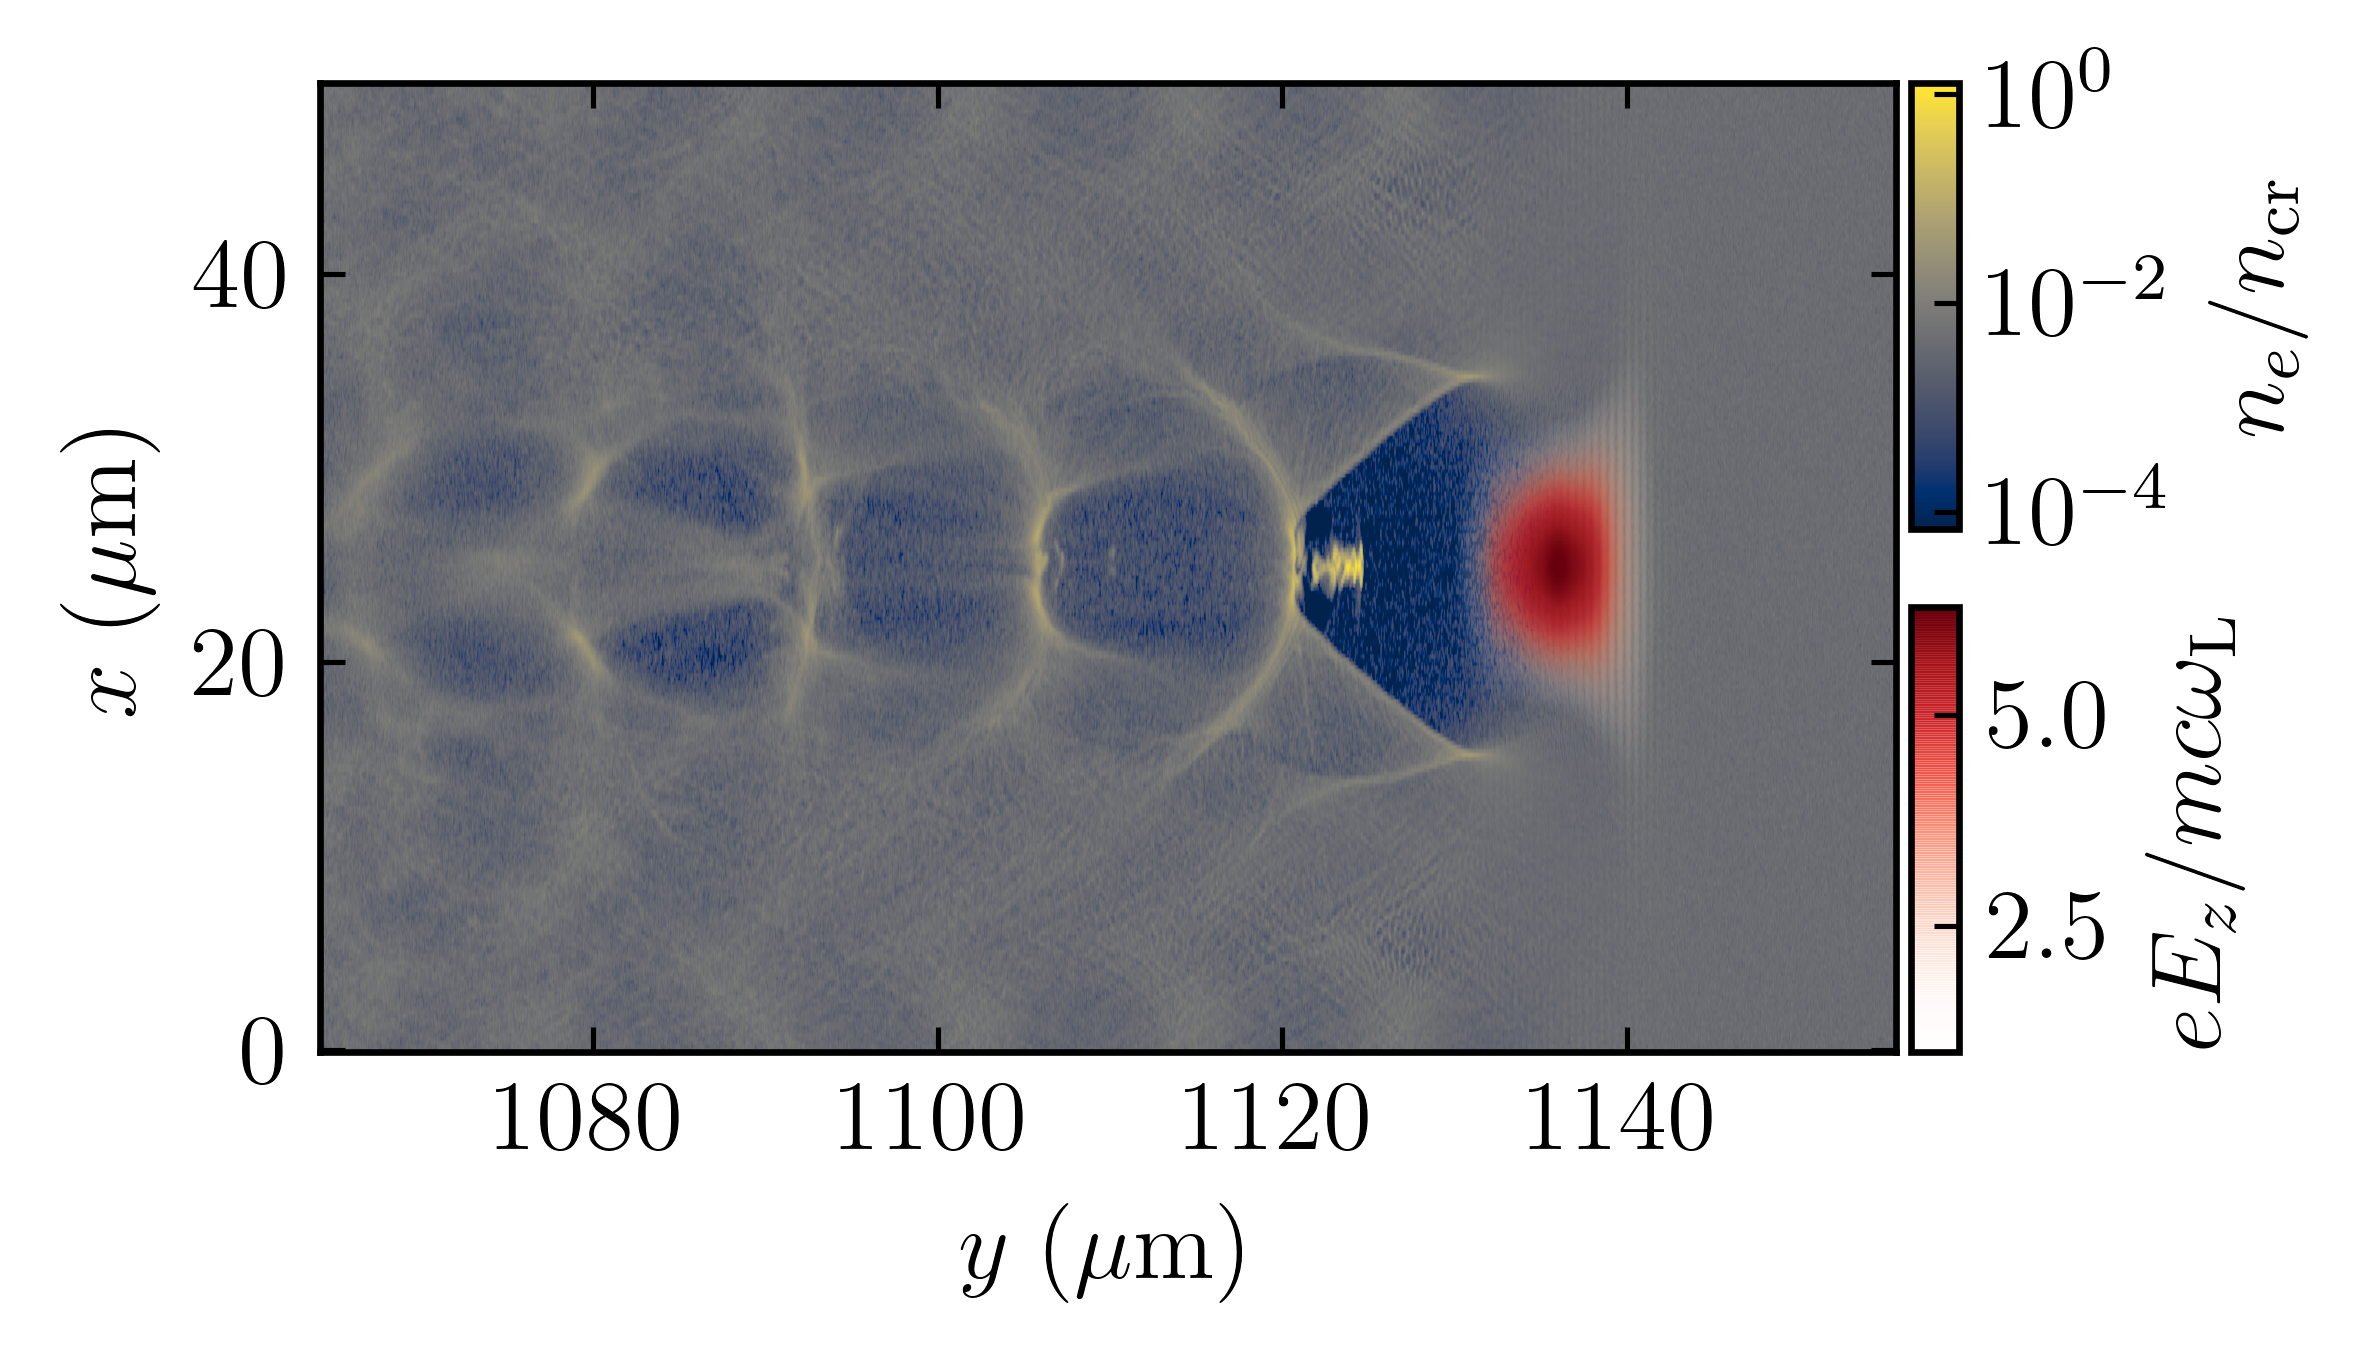
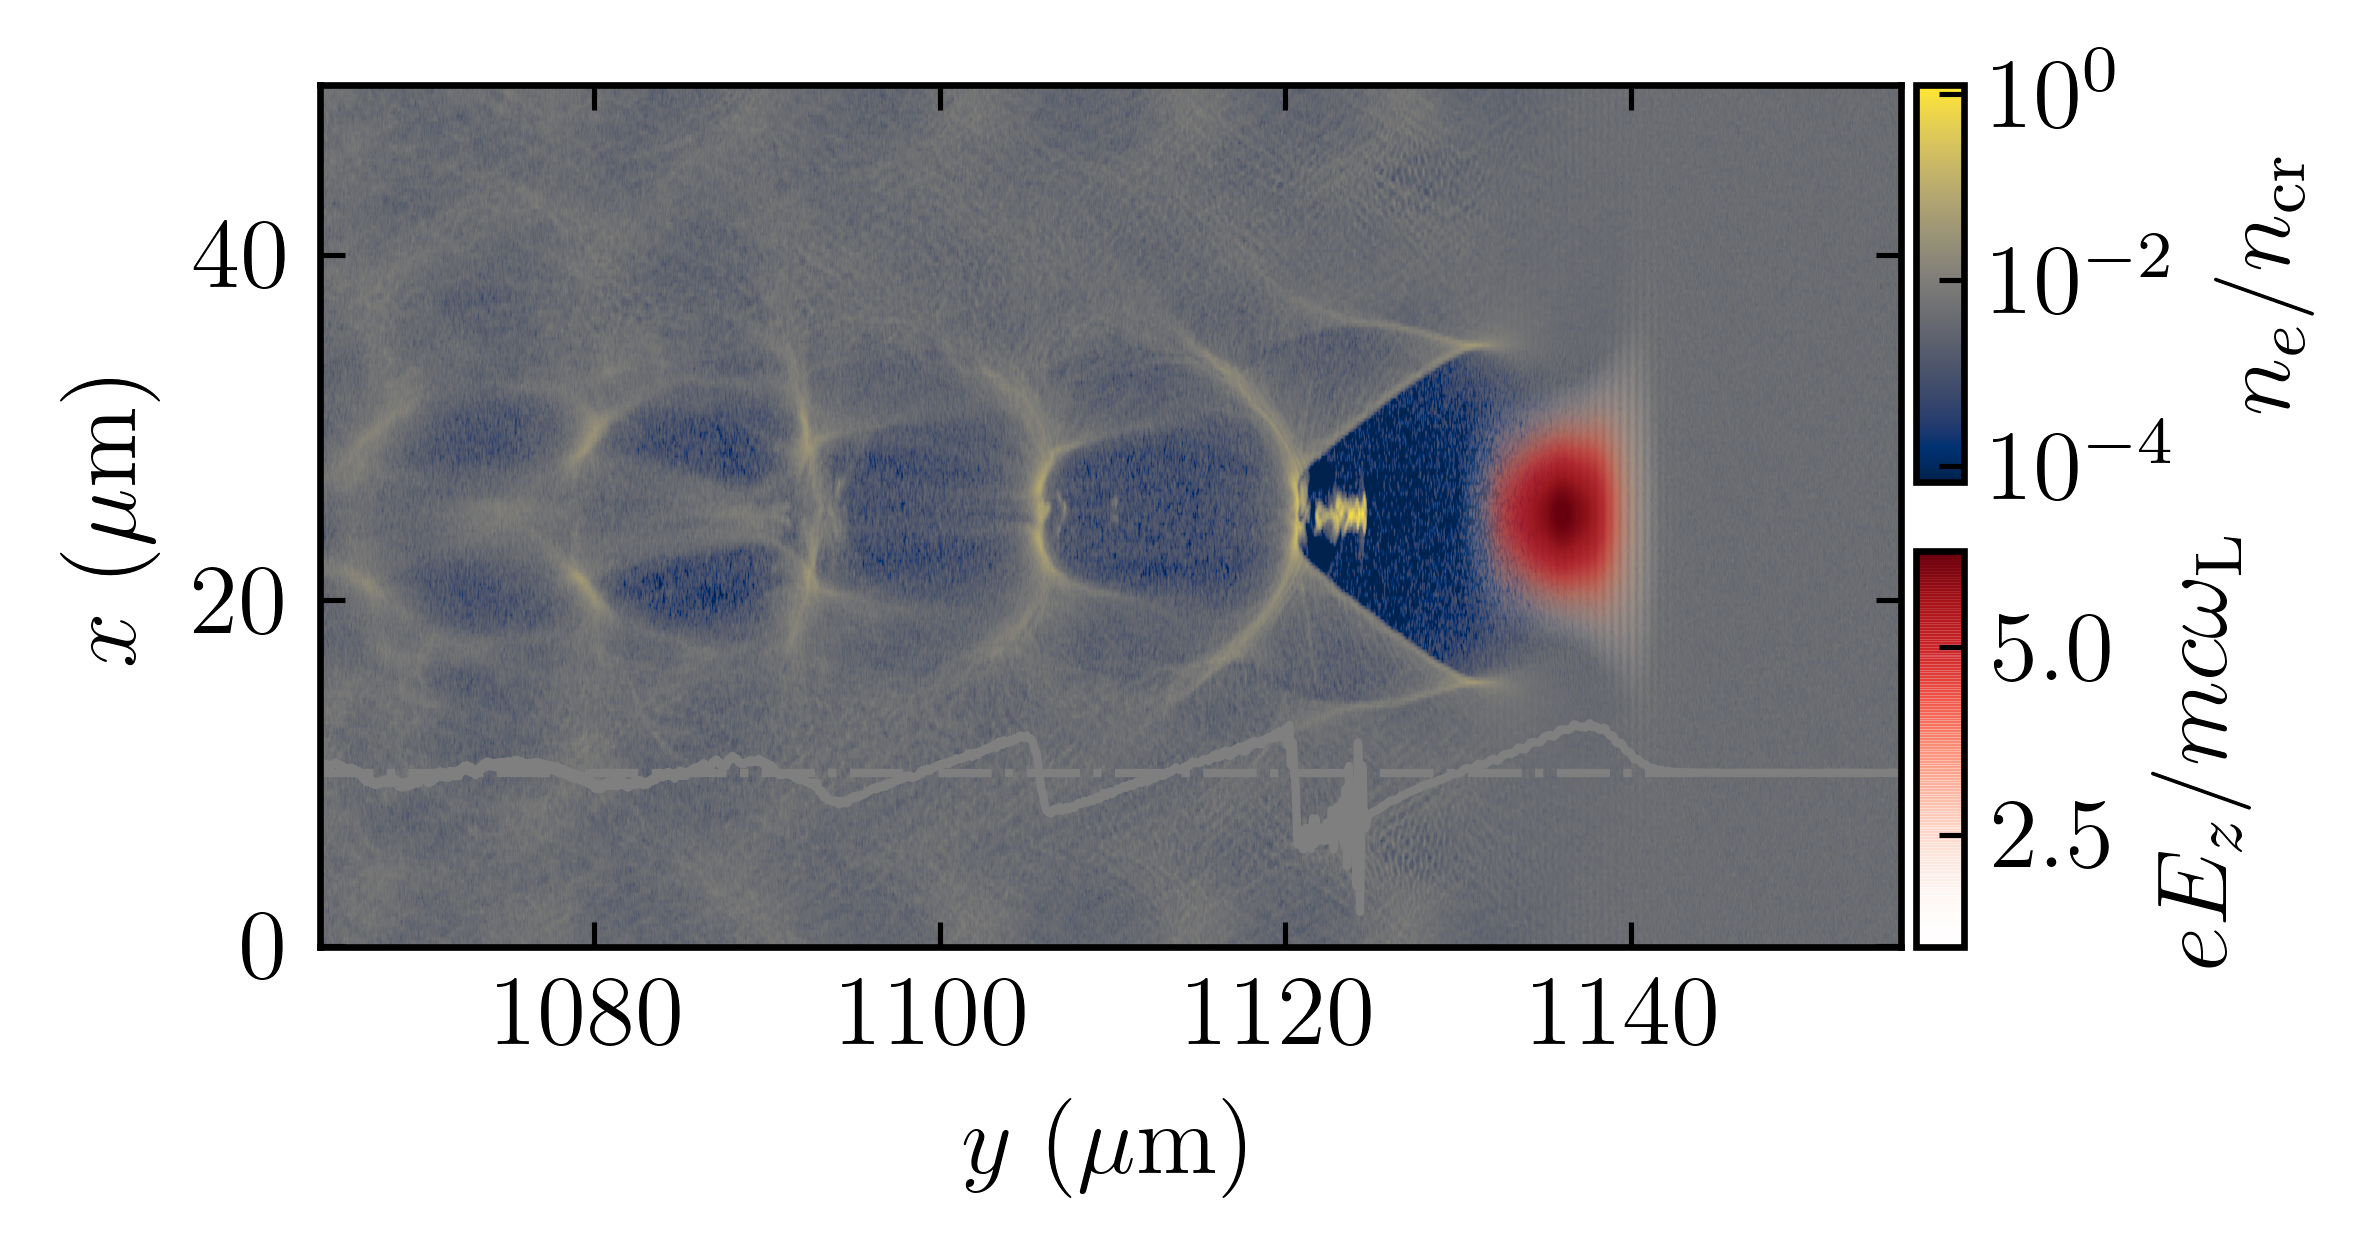
Add longitudinal electic field profile

diff --git a/laser_density.py b/laser_density.py
@@ -3,22 +3,18 @@
 import pathlib
 from copy import copy
 from openpmd_viewer import addons
-import matplotlib.pyplot as plt
-from matplotlib import colors, cm, rcParams
+from matplotlib import pyplot as plt, colors, cm, rcParams
 from mpl_toolkits.axes_grid1.inset_locator import inset_axes
 import unyt as u
 from prepic import lwfa
 import numpy as np
 from scipy.signal import hilbert
-#import colorcet as cc
 import custom_colormap as cc
 import figformat
 
 fig_width, fig_height, params = figformat.figure_format(fig_width=3.4)
 rcParams.update(params)
 
-#my_cmap = copy(cc.cm.fire)
-#my_cmap.set_under("k", alpha=0)
 cc.colormap_alpha('Reds')
 
 a0 = 2.4 * u.dimensionless  # Laser amplitude
@@ -55,13 +51,21 @@ electric, electric_info = ts.get_field(
 e_complx = hilbert(electric, axis=0)
 envelope = np.abs(e_complx)
 
+# get longitudinal field
+e_y_of_y, e_y_of_y_info = ts.get_field(
+    field="E",
+    coord="y",
+    iteration=50000,
+    slice_across=["z", "x"],
+)
+
+
 fig, ax = plt.subplots(figsize=(fig_width, fig_height))
 
 im_rho = ax.imshow(
     np.flipud(np.rot90(rho / n_c)),
     extent=np.roll(rho_info.imshow_extent * 1e6, 2),
     origin="lower",
-    aspect="auto",
     norm=colors.SymLogNorm(linthresh=1e-4, linscale=0.15, base=10),
     cmap=cm.get_cmap("cividis"),
 )
@@ -69,10 +73,13 @@ im_envelope = ax.imshow(
     np.flipud(np.rot90(envelope / E0)),
     extent=np.roll(electric_info.imshow_extent * 1e6, 2),
     origin="lower",
-    aspect="auto",
     cmap='Reds_alpha',
 )
 im_envelope.set_clim(vmin=1.0)
+
+# plot longitudinal field
+ax.plot(e_y_of_y_info.y * 1e6, e_y_of_y / E0 * 25 + 10, color="tab:gray")
+ax.axhline(10, color="tab:gray", ls="-.")
 
 cbaxes_rho = inset_axes(
     ax,
